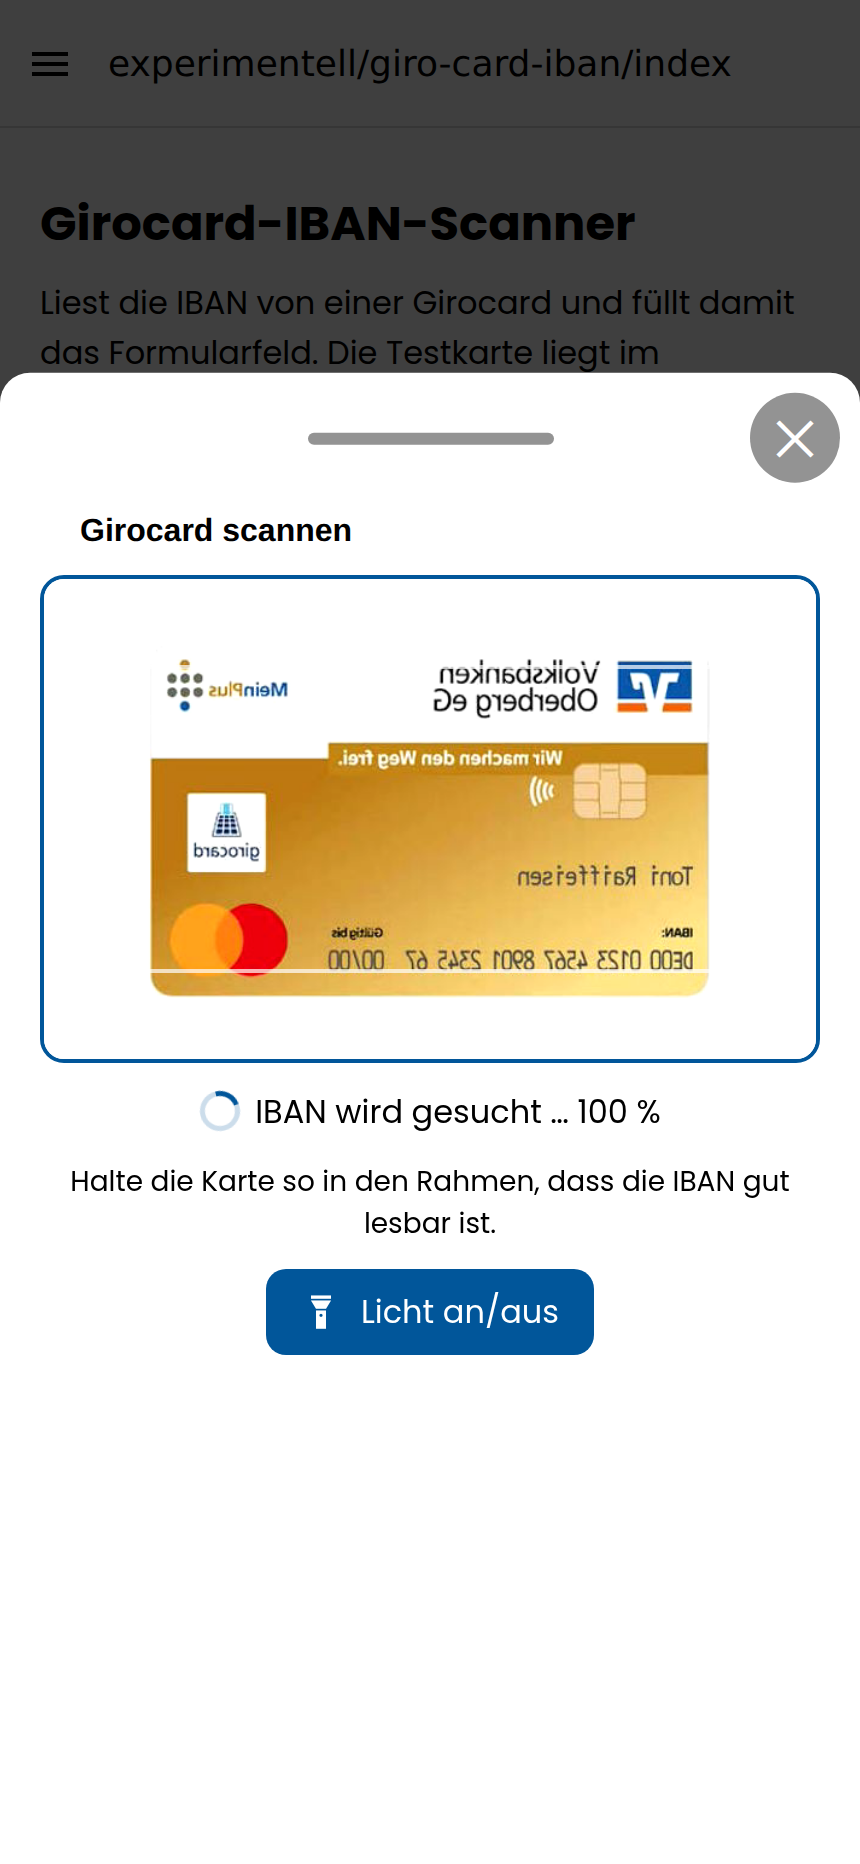
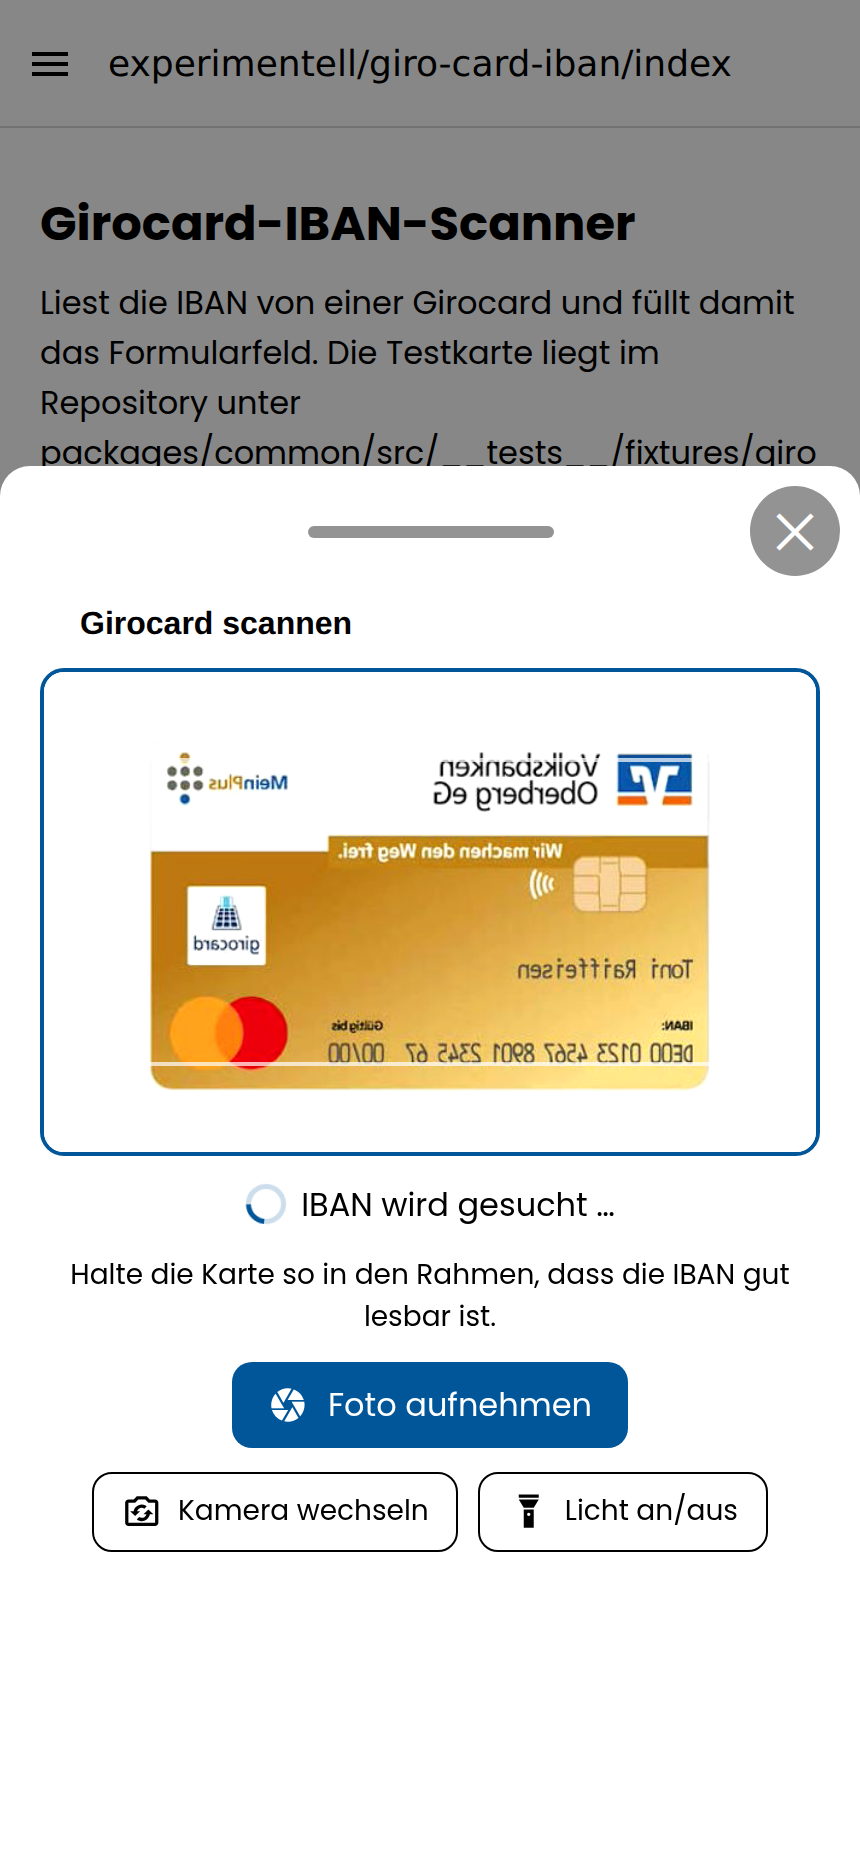
feat(form): Kamera wechseln und Auslöser im Girocard-Scanner
Zwei Dinge aus dem Test im Web: facing="back" greift dort nicht
zuverlässig - der Browser nimmt, welche Kamera er für passend hält, oft die
vordere. Und eine laufende Vorschau ist der schlechtere Untergrund für
Tesseract als ein stehendes Bild.

- "Kamera wechseln" schaltet zwischen vorderer und hinterer Kamera um.
- "Foto aufnehmen" friert ein Bild ein und liest genau dieses. Solange das
  Standbild steht, pausiert die automatische Schleife: das Bild hat der
  Nutzer ausgesucht, eine zweite Erkennung würde ihm nur Rechenzeit
  wegnehmen. Findet sich darin keine IBAN, sagt das Sheet es und "Neues
  Foto" holt die Vorschau zurück.
- Die automatische Schleife bleibt, wie sie war - der Auslöser kommt dazu,
  er ersetzt sie nicht.

Licht und Kamerawechsel sind jetzt sekundäre Buttons, damit der Auslöser
der eine offensichtliche bleibt.

Claude-Session: https://claude.ai/code/session_017L4izFwqWrpaS2A4gQ2dpt

diff --git a/apps/frontend/app/components/GiroCardIbanScanner/index.tsx b/apps/frontend/app/components/GiroCardIbanScanner/index.tsx
@@ -1,6 +1,6 @@
 import React, { useCallback, useEffect, useRef, useState } from 'react';
-import { ActivityIndicator, StyleSheet, Text, TouchableOpacity, View } from 'react-native';
-import { CameraView, useCameraPermissions } from 'expo-camera';
+import { ActivityIndicator, Image, StyleSheet, Text, TouchableOpacity, View } from 'react-native';
+import { CameraType, CameraView, useCameraPermissions } from 'expo-camera';
 import { MaterialCommunityIcons } from '@expo/vector-icons';
 import { IbanCandidate, IbanRecognitionHelper } from 'repo-depkit-common';
 
@@ -11,6 +11,7 @@ import { myContrastColor } from '@/helper/ColorHelper';
 import { TranslationKeys } from '@/locales/keys';
 import { useMyScrollViewModal } from '@/components/GlobalModal/useMyScrollViewModal';
 import { useTextRecognition } from '@/hooks/useTextRecognition';
+import type { RecognitionImage } from '@/helper/TextRecognitionShared';
 
 /** Pause between two recognition passes. One pass itself takes about a second. */
 const SCAN_PAUSE_IN_MS = 300;
@@ -34,10 +35,12 @@ export interface GiroCardIbanScannerProps {
 /**
  * Camera preview that reads the IBAN off a giro card.
  *
- * Instead of a shutter button the preview is sampled continuously: a frame is
- * captured, run through on-device OCR and searched for an IBAN, then the next
- * one. The first hit ends the scan — the caller closes the sheet and fills its
- * input field.
+ * Two ways to the same end. By default the preview is sampled continuously: a
+ * frame is captured, read and searched for an IBAN, then the next one. And at
+ * any moment the shutter button takes one deliberate still and reads that —
+ * which is the better way to hold a card steady, because the frame stays put
+ * while the engine works on it. Either way the first hit ends the scan: the
+ * caller closes the sheet and fills its input field.
  */
 export const GiroCardIbanScanner: React.FC<GiroCardIbanScannerProps> = ({ onIbanDetected, allowInvalidChecksum, onRecognizedLinesChange }) => {
 	const { theme } = useTheme();
@@ -48,7 +51,11 @@ export const GiroCardIbanScanner: React.FC<GiroCardIbanScannerProps> = ({ onIban
 	const [permission, requestPermission] = useCameraPermissions();
 	const [isCameraReady, setIsCameraReady] = useState(false);
 	const [isTorchEnabled, setIsTorchEnabled] = useState(false);
+	const [facing, setFacing] = useState<CameraType>('back');
 	const [hasRecognizedOnce, setHasRecognizedOnce] = useState(false);
+	/** The still the shutter button took, held on screen while it is read. */
+	const [capturedImage, setCapturedImage] = useState<RecognitionImage | null>(null);
+	const [isCapturedImageRead, setIsCapturedImageRead] = useState(false);
 
 	const { recognizeLines, progress, errorMessage, engineElement } = useTextRecognition();
 
@@ -59,10 +66,10 @@ export const GiroCardIbanScanner: React.FC<GiroCardIbanScannerProps> = ({ onIban
 	const isPermissionGranted = permission?.granted === true;
 	const isPermissionPending = permission === null;
 
-	const scanOnce = useCallback(async (): Promise<boolean> => {
+	const takePicture = useCallback(async (): Promise<RecognitionImage | null> => {
 		const camera = cameraRef.current;
 		if (!camera) {
-			return false;
+			return null;
 		}
 		// No `skipProcessing`: it hands back the frame in the sensor's own
 		// orientation, and text lying on its side is text the engine cannot read.
@@ -72,21 +79,54 @@ export const GiroCardIbanScanner: React.FC<GiroCardIbanScannerProps> = ({ onIban
 			shutterSound: false,
 		});
 		if (!picture?.uri) {
-			return false;
+			return null;
 		}
-		const lines = await recognizeLines({ uri: picture.uri, width: picture.width });
-		setHasRecognizedOnce(true);
-		onRecognizedLinesChange?.(lines);
-		const candidate = IbanRecognitionHelper.findIban(lines, { allowInvalidChecksum });
-		if (!candidate) {
-			return false;
+		return { uri: picture.uri, width: picture.width };
+	}, []);
+
+	/** Reads one image and reports the IBAN if there is one. */
+	const readImage = useCallback(
+		async (image: RecognitionImage): Promise<boolean> => {
+			const lines = await recognizeLines(image);
+			setHasRecognizedOnce(true);
+			onRecognizedLinesChange?.(lines);
+			const candidate = IbanRecognitionHelper.findIban(lines, { allowInvalidChecksum });
+			if (!candidate) {
+				return false;
+			}
+			isFinishedRef.current = true;
+			onIbanDetected(candidate);
+			return true;
+		},
+		[allowInvalidChecksum, onIbanDetected, onRecognizedLinesChange, recognizeLines],
+	);
+
+	/** The shutter: freeze one frame and read that instead of a moving preview. */
+	const captureAndRead = useCallback(async () => {
+		const image = await takePicture();
+		if (!image) {
+			return;
 		}
-		onIbanDetected(candidate);
-		return true;
-	}, [allowInvalidChecksum, onIbanDetected, onRecognizedLinesChange, recognizeLines]);
+		setCapturedImage(image);
+		setIsCapturedImageRead(false);
+		try {
+			await readImage(image);
+		} catch {
+			// The hook reports what went wrong; the still stays up so the user can
+			// try again without hunting for the card a second time.
+		}
+		setIsCapturedImageRead(true);
+	}, [readImage, takePicture]);
+
+	const discardCapturedImage = useCallback(() => {
+		setCapturedImage(null);
+		setIsCapturedImageRead(false);
+	}, []);
 
 	useEffect(() => {
-		if (!isCameraReady || !isPermissionGranted) {
+		// While a still is on screen the loop stands down: that frame is the one
+		// the user picked, and a second recognition would only compete with it.
+		if (!isCameraReady || !isPermissionGranted || capturedImage !== null) {
 			return;
 		}
 
@@ -98,9 +138,8 @@ export const GiroCardIbanScanner: React.FC<GiroCardIbanScannerProps> = ({ onIban
 				return;
 			}
 			try {
-				const isDone = await scanOnce();
-				if (isDone) {
-					isFinishedRef.current = true;
+				const image = await takePicture();
+				if (image && (await readImage(image))) {
 					return;
 				}
 			} catch {
@@ -123,7 +162,7 @@ export const GiroCardIbanScanner: React.FC<GiroCardIbanScannerProps> = ({ onIban
 				clearTimeout(timeoutId);
 			}
 		};
-	}, [isCameraReady, isPermissionGranted, scanOnce]);
+	}, [capturedImage, isCameraReady, isPermissionGranted, readImage, takePicture]);
 
 	if (!isPermissionGranted) {
 		return (
@@ -152,23 +191,49 @@ export const GiroCardIbanScanner: React.FC<GiroCardIbanScannerProps> = ({ onIban
 	} else if (!hasRecognizedOnce) {
 		statusText = translate(TranslationKeys.giro_card_scan_preparing);
 	}
+	const isReadingCapturedImage = capturedImage !== null && !isCapturedImageRead;
+	if (capturedImage !== null && isCapturedImageRead) {
+		statusText = translate(TranslationKeys.giro_card_scan_no_iban_in_photo);
+	}
 
 	return (
 		<View style={styles.container}>
 			{engineElement}
 			<View style={[styles.cameraWrapper, { borderColor: primaryColor }]}>
-				<CameraView ref={cameraRef} style={styles.camera} facing="back" animateShutter={false} enableTorch={isTorchEnabled} onCameraReady={() => setIsCameraReady(true)} />
+				<CameraView ref={cameraRef} style={styles.camera} facing={facing} animateShutter={false} enableTorch={isTorchEnabled} onCameraReady={() => setIsCameraReady(true)} />
+				{capturedImage !== null && <Image source={{ uri: capturedImage.uri }} style={styles.capturedImage} resizeMode="cover" accessibilityLabel={translate(TranslationKeys.giro_card_scan_take_photo)} />}
 				<View pointerEvents="none" style={[styles.cardFrame, { borderColor: contrastColor }]} />
 			</View>
+
 			<View style={styles.statusRow}>
-				<ActivityIndicator size="small" color={primaryColor} />
+				{(capturedImage === null || isReadingCapturedImage) && <ActivityIndicator size="small" color={primaryColor} />}
 				<Text style={[styles.statusText, { color: theme.screen.text }]}>{statusText}</Text>
 			</View>
 			<Text style={[styles.hintText, { color: theme.screen.text }]}>{translate(TranslationKeys.giro_card_scan_hint)}</Text>
-			<TouchableOpacity style={[styles.actionButton, { backgroundColor: primaryColor }]} onPress={() => setIsTorchEnabled((enabled) => !enabled)} accessibilityRole="button" accessibilityLabel={translate(TranslationKeys.giro_card_scan_toggle_torch)}>
-				<MaterialCommunityIcons name={isTorchEnabled ? 'flashlight-off' : 'flashlight'} size={20} color={contrastColor} />
-				<Text style={[styles.actionButtonText, { color: contrastColor }]}>{translate(TranslationKeys.giro_card_scan_toggle_torch)}</Text>
-			</TouchableOpacity>
+
+			{capturedImage === null ? (
+				<TouchableOpacity style={[styles.actionButton, { backgroundColor: primaryColor }]} onPress={() => void captureAndRead()} accessibilityRole="button" accessibilityLabel={translate(TranslationKeys.giro_card_scan_take_photo)}>
+					<MaterialCommunityIcons name="camera-iris" size={20} color={contrastColor} />
+					<Text style={[styles.actionButtonText, { color: contrastColor }]}>{translate(TranslationKeys.giro_card_scan_take_photo)}</Text>
+				</TouchableOpacity>
+			) : (
+				<TouchableOpacity style={[styles.actionButton, { backgroundColor: primaryColor }]} onPress={discardCapturedImage} disabled={isReadingCapturedImage} accessibilityRole="button" accessibilityLabel={translate(TranslationKeys.giro_card_scan_retry)}>
+					<MaterialCommunityIcons name="camera-retake-outline" size={20} color={contrastColor} />
+					<Text style={[styles.actionButtonText, { color: contrastColor }]}>{translate(TranslationKeys.giro_card_scan_retry)}</Text>
+				</TouchableOpacity>
+			)}
+
+			<View style={styles.secondaryRow}>
+				<TouchableOpacity style={[styles.secondaryButton, { borderColor: theme.screen.icon }]} onPress={() => setFacing((current) => (current === 'back' ? 'front' : 'back'))} accessibilityRole="button" accessibilityLabel={translate(TranslationKeys.giro_card_scan_switch_camera)}>
+					<MaterialCommunityIcons name="camera-flip-outline" size={20} color={theme.screen.icon} />
+					<Text style={[styles.secondaryButtonText, { color: theme.screen.text }]}>{translate(TranslationKeys.giro_card_scan_switch_camera)}</Text>
+				</TouchableOpacity>
+				<TouchableOpacity style={[styles.secondaryButton, { borderColor: theme.screen.icon }]} onPress={() => setIsTorchEnabled((enabled) => !enabled)} accessibilityRole="button" accessibilityLabel={translate(TranslationKeys.giro_card_scan_toggle_torch)}>
+					<MaterialCommunityIcons name={isTorchEnabled ? 'flashlight-off' : 'flashlight'} size={20} color={theme.screen.icon} />
+					<Text style={[styles.secondaryButtonText, { color: theme.screen.text }]}>{translate(TranslationKeys.giro_card_scan_toggle_torch)}</Text>
+				</TouchableOpacity>
+			</View>
+
 			{Boolean(errorMessage) && (
 				<>
 					<Text style={[styles.hintText, { color: theme.screen.text }]}>{translate(TranslationKeys.giro_card_scan_engine_failed)}</Text>
@@ -236,6 +301,13 @@ const styles = StyleSheet.create({
 		width: '100%',
 		height: '100%',
 	},
+	capturedImage: {
+		position: 'absolute',
+		top: 0,
+		right: 0,
+		bottom: 0,
+		left: 0,
+	},
 	cardFrame: {
 		position: 'absolute',
 		top: '18%',
@@ -276,6 +348,26 @@ const styles = StyleSheet.create({
 	},
 	actionButtonText: {
 		fontSize: 16,
+		fontFamily: 'Poppins_400Regular',
+	},
+	secondaryRow: {
+		flexDirection: 'row',
+		flexWrap: 'wrap',
+		justifyContent: 'center',
+		gap: 10,
+	},
+	secondaryButton: {
+		flexDirection: 'row',
+		alignItems: 'center',
+		justifyContent: 'center',
+		gap: 8,
+		borderRadius: 10,
+		borderWidth: 1,
+		paddingHorizontal: 14,
+		height: 40,
+	},
+	secondaryButtonText: {
+		fontSize: 14,
 		fontFamily: 'Poppins_400Regular',
 	},
 	errorText: {

diff --git a/apps/frontend/app/locales/keys.ts b/apps/frontend/app/locales/keys.ts
@@ -656,6 +656,10 @@ export const TranslationKeys = {
 	giro_card_scan_no_result_yet: 'giro_card_scan_no_result_yet',
 	giro_card_scan_engine: 'giro_card_scan_engine',
 	giro_card_scan_preparing: 'giro_card_scan_preparing',
+	giro_card_scan_take_photo: 'giro_card_scan_take_photo',
+	giro_card_scan_retry: 'giro_card_scan_retry',
+	giro_card_scan_switch_camera: 'giro_card_scan_switch_camera',
+	giro_card_scan_no_iban_in_photo: 'giro_card_scan_no_iban_in_photo',
 } as const;
 
 export type TranslationKeys = (typeof TranslationKeys)[keyof typeof TranslationKeys];
